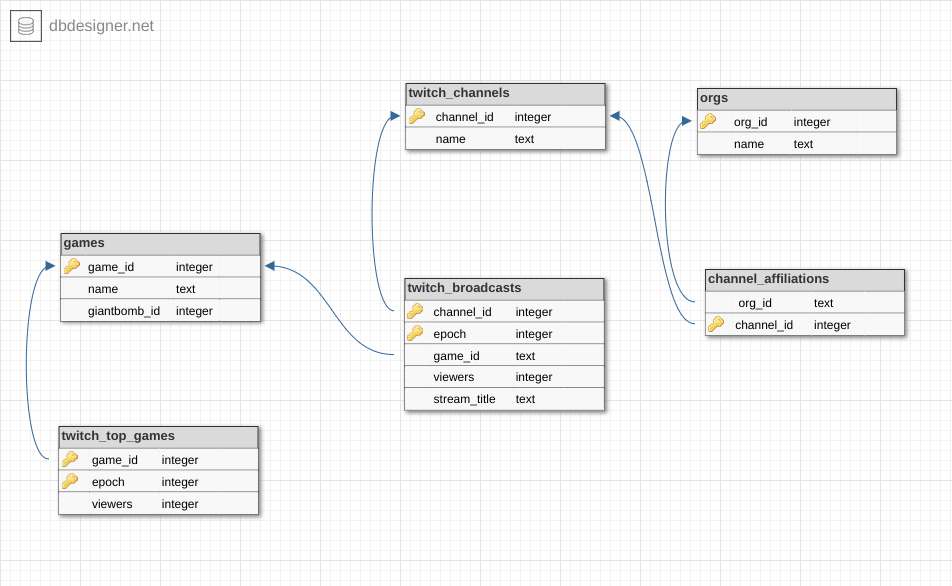
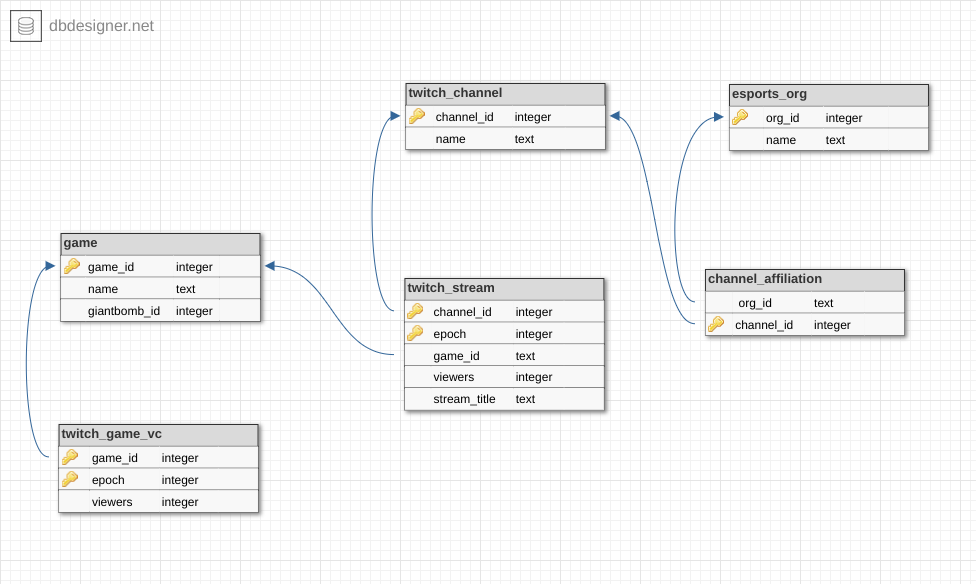
Combined methods used to store rows into one.

diff --git a/scraper/src/dbinterface.py b/scraper/src/dbinterface.py
@@ -16,9 +16,9 @@ class PostgresManager:
 
         self.conn = psycopg2.connect(host=host, port=port, user=user,
                                      password=password, dbname=dbname)
-        self. tables = ['games', 'twitch_game_viewer_count',
-                        'twitch_stream', 'twitch_channel',
-                        'channel_affiliation', 'org']
+        self.tablenames = {'game', 'twitch_game_vc', 'twitch_stream',
+                           'twitch_channel', 'channel_affiliation',
+                           'esports_org'}
         self.initdb()
 
     @staticmethod
@@ -38,7 +38,7 @@ class PostgresManager:
         """
         try:
 
-            if not all(self.table_exists(t) for t in self.tables):
+            if not all(self.table_exists(t) for t in self.tablenames):
                 logging.info('Initializing missing tables.')
                 self.create_tables()
                 self.conn.commit()
@@ -64,8 +64,8 @@ class PostgresManager:
             ');'
         )
         game_index = 'CREATE INDEX game_name_idx ON game USING HASH (name);'
-        twitch_game_viewer_count = (
-            'CREATE TABLE twitch_game_viewer_count( '
+        twitch_game_vc = (
+            'CREATE TABLE twitch_game_vc( '
             '    game_id integer REFERENCES game(game_id), '
             '    epoch integer NOT NULL, '
             '    viewers integer NOT NULL, '
@@ -74,7 +74,7 @@ class PostgresManager:
         )
         twitch_channel = (
             'CREATE TABLE twitch_channel( '
-            '    channel_id integer PRIMARY KEY, '
+            '    channel_id integer PRIMARY KEY, ' 
             '    name text NOT NULL ' 
             ');'
         )
@@ -106,9 +106,9 @@ class PostgresManager:
             curs.execute(game)
             curs.execute(game_index)
             logging.info('Created Table: game')
-        if not self.table_exists('twitch_game_viewer_count'):
-            curs.execute(twitch_game_viewer_count)
-            logging.info('Created Table: twitch_game_viewer_count')
+        if not self.table_exists('twitch_game_vc'):
+            curs.execute(twitch_game_vc)
+            logging.info('Created Table: twitch_game_vc')
         if not self.table_exists('twitch_channel'):
             curs.execute(twitch_channel)
             logging.info('Created Table: twitch_channel')
@@ -130,9 +130,7 @@ class PostgresManager:
             table names.
         :return: bool
         """
-        tables = ['game', 'twitch_game_viewer_count', 'twitch_stream',
-                  'twitch_channel', 'channel_affiliation', 'esports_org']
-        if table not in tables:
+        if table not in self.tablenames:
             return False
         exists = ('SELECT count(*) '
                   '    FROM information_schema.tables'
@@ -159,48 +157,44 @@ class PostgresManager:
         cursor.execute(query)
         return cursor.fetchone()[0]
 
-    def store_twitch_game_viewer_count(self, rows, commit=False):
+    def store_rows(self, rows, tablename, commit=False):
         """
-        Stores top game entries using conn.
+        Stores the rows in the specified table.
 
-        There is no error checking in this function so the game_id field of
-        each row must already exist in the game table.
-        :param rows: list[TwitchGameViewerCount],
+        Conflicting rows are ignored
+
+        :param rows: list[Object], Objects must have a to_row method.
+        :param tablename: str, name of the table to insert into.
+        :return: bool
         """
-        if not rows:
-            return
-
-        query = ('INSERT INTO twitch_game_viewer_count '
+        if not rows or tablename not in self.tablenames:
+            return False
+        query = (f'INSERT INTO {tablename} '
                  'VALUES %s '
                  'ON CONFLICT DO NOTHING ')
         rows = [x.to_row() for x in rows]
+        template = '({})'.format(','.join(['%s' for _ in range(len(rows[0]))]))
         curs = self.conn.cursor()
-        extras.execute_values(curs, query, rows, '(%s, %s, %s)', 1000)
+        extras.execute_values(curs, query, rows, template, 1000)
         if commit:
             self.conn.commit()
+        return True
 
-    def store_games(self, games, commit=False):
-        """
-        Stores game entries if they do not already exist.
+    # Stream Functions
+    def game_name_to_id(self, conn, name):
+        # TODO: Figure out source of inconsistent naming data
+        if name not in self.esports_games:
+            for game in self.esports_games:
+                if name.lower() == game.lower():
+                    name = game
+                    break
+        query = ('SELECT game_id '
+                 'FROM games '
+                 'WHERE name = %s')
+        cursor = conn.cursor()
+        cursor.execute(query, (name,))
+        return cursor.fetchone()[0]
 
-        :param games: list[Game] or list[TwitchAPIResponse], the list of rows to
-        store.
-        :param commit: bool, whether to commit after storing rows.
-        :return:
-        """
-        if not games:
-            return
-        if type(games[0]) == TwitchGamesAPIResponse:
-            games = list(Game.api_responses_to_games(games).values())
-
-        query = ('INSERT INTO game (game_id, name, giantbomb_id) '
-                 'VALUES %s '
-                 'ON CONFLICT DO NOTHING')
-        rows = [g.to_row() for g in games]
-        curs = self.conn.cursor()
-        extras.execute_values(curs, query, rows, '(%s, %s, %s)', 1000)
-        if commit:
-            self.conn.commit()
 
 class MongoManager:
     def __init__(self):

diff --git a/scraper/src/aggregator.py b/scraper/src/aggregator.py
@@ -104,78 +104,6 @@ class Aggregator:
         dt = datetime.fromtimestamp(timestamp, tz)
         return dt.strftime("%Z - %Y/%m/%d, %H:%M:%S")
 
-    @staticmethod
-    def store_twitch_channel(streams, conn):
-        """
-        Adds new channels to db.
-
-        Stores the game ids specified in streams or does nothing if they
-        already are stored.  Does not commit.
-
-        :param streams: dict,
-        :param conn: psycog2.Connection, Postgres connection.
-        :return:
-        """
-        if not streams:
-            return
-        # TODO: Handle name change updates
-        query = ('INSERT INTO twitch_channel (channel_id, name) '
-                 'VALUES {} '
-                 'ON CONFLICT DO NOTHING')
-        curs = conn.cursor()
-        values = []
-        for chid, stream in streams.items():
-            tup = (chid, stream['name'])
-            values.append(curs.mogrify("(%s, %s)", tup).decode())
-        query = query.format(','.join(values))
-        curs.execute(query)
-
-    def store_broadcasts(self, streams, timestamp, conn):
-        """
-        Stores top game entries using conn.
-
-        There is no error checking in this function so the games id field
-        must already exist in the games table.  Call store_games on the
-        list of game entries first to make sure this function does not crash.
-        """
-        if not streams:
-            return
-        cursor = conn.cursor()
-        query = ('INSERT INTO twitch_broadcasts '
-                 'VALUES {} '
-                 'ON CONFLICT DO NOTHING ')
-
-        # Sanitize values
-        values = []
-        game_ids = {}
-        for channel_id, stream in streams.items():
-            gn = stream['game_name']
-            if gn not in game_ids:
-                game_ids[gn] = self.game_name_to_id(conn, gn)
-            tup = (int(channel_id),
-                   timestamp,
-                   game_ids[gn],
-                   stream['viewers'],
-                   stream['stream_title'])
-            values.append(cursor.mogrify("(%s,%s,%s,%s,%s)", tup).decode())
-        query = query.format(','.join(values))
-        cursor.execute(query)
-        logging.debug("Broadcasts stored from: " + self.strtime(timestamp))
-
-    def game_name_to_id(self, conn, name):
-        # TODO: Figure out source of inconsistent naming data
-        if name not in self.esports_games:
-            for game in self.esports_games:
-                if name.lower() == game.lower():
-                    name = game
-                    break
-        query = ('SELECT game_id '
-                 'FROM games '
-                 'WHERE name = %s')
-        cursor = conn.cursor()
-        cursor.execute(query, (name,))
-        return cursor.fetchone()[0]
-
     def agg_top_games(self):
         """
         Aggregates and stores twitch game info.
@@ -192,18 +120,19 @@ class Aggregator:
         self.client = MongoClient(self.twitch_db['host'],
                                   self.twitch_db['port'])
         curhrstart, curhrend, last = self._agg_ts(man,
-                                                  'twitch_game_viewer_count',
+                                                  'twitch_game_vc',
                                                   self.twitch_db['top_games'])
         while curhrend < last:
             docs = self.docsbetween(curhrstart, curhrend,
                                        self.twitch_db['top_games'])
-            games = [TwitchGamesAPIResponse(doc) for doc in docs]
-            vcs = self.average_viewers(games, curhrstart, curhrend)
+            apiresp = [TwitchGamesAPIResponse(doc) for doc in docs]
+            vcs = self.average_viewers(apiresp, curhrstart, curhrend)
             vcs = TwitchGameViewerCount.from_vcs(vcs, curhrstart)
             # Some hours empty due to server failure
-            if games:
-                man.store_games(games)
-                man.store_twitch_game_viewer_count(vcs)
+            if apiresp:
+                games = Game.api_responses_to_games(apiresp).values()
+                man.store_rows(games, 'game')
+                man.store_rows(vcs, 'twitch_game_vc')
             curhrstart += 3600
             curhrend += 3600
         man.commit()
@@ -219,11 +148,11 @@ class Aggregator:
 
         :return:
         """
-        conn = self.postgresconn()
+        man = PostgresManager.from_config(self.postgres)
         self.client = MongoClient(self.twitch_db['host'],
                                   self.twitch_db['port'])
-        hrstart, hrend, last = self._agg_ts(conn,
-                                            'twitch_broadcasts',
+        hrstart, hrend, last = self._agg_ts(man,
+                                            'twitch_stream',
                                             self.twitch_db['top_streams'])
         while hrend < last:
             entries = self.docsbetween(hrstart, hrend,
@@ -231,12 +160,12 @@ class Aggregator:
             streams = self.agg_twitch_broadcasts_period(entries, hrstart, hrend)
             # Some hours empty due to server failure
             if streams:
-                self.store_twitch_channel(streams, conn)
-                self.store_broadcasts(streams, hrstart, conn)
+                man.store_rows(streams, 'twitch_channel')
+                man.store_rows(streams, 'twitch_stream')
             hrstart += 3600
             hrend += 3600
-        conn.commit()
-        conn.close()
+        man.commit()
+        man.close()
         self.client.close()
 
     @staticmethod

diff --git a/scraper/src/models.py b/scraper/src/models.py
@@ -63,9 +63,9 @@ class Game:
     __slots__ = ['game_id', 'name', 'giantbomb_id']
 
     def __init__(self, game_id, name, giantbomb_id):
-        self.game_id = game_id
+        self.game_id = int(game_id)
         self.name = name
-        self.giantbomb_id = giantbomb_id
+        self.giantbomb_id = int(giantbomb_id)
 
     @staticmethod
     def api_responses_to_games(resps):
@@ -108,3 +108,17 @@ class TwitchGameViewerCount:
 
     def to_row(self):
         return self.game_id, self.epoch, self.viewers
+
+
+class TwitchChannel:
+    """
+    A mapping between a Twitch channel name and its id.
+    """
+    __slots__ = ['channel_id', 'name']
+
+    def __init__(self, channel_id, name):
+        self.channel_id = id
+        self.name = name
+
+    def to_row(self):
+        return self.channel_id, self.name
